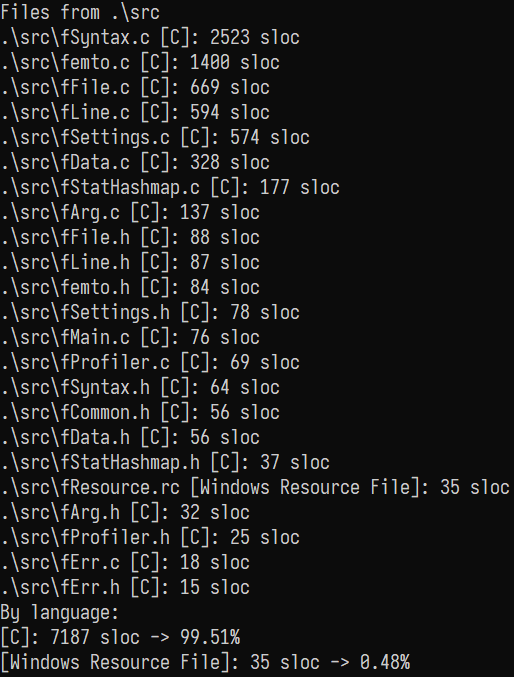
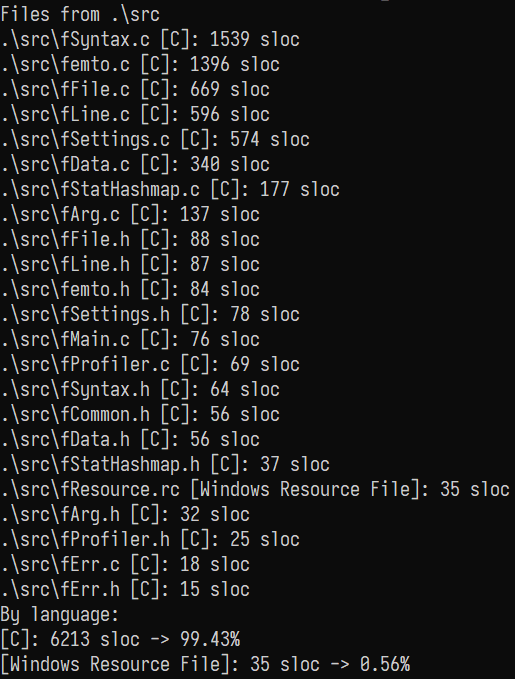
Update sloc

Changed region(s): [[0.0, 0.0, 0.9961, 0.9926], [0.6537, 0.9616, 0.8093, 0.9926], [0.5914, 0.2482, 0.6537, 0.3102]]

diff --git a/README.md b/README.md
@@ -13,7 +13,7 @@ It is also written in vanilla C & Win32 Console API - it's designed to be used s
 It has been compiled with MinGW GCC.
 
 Currently, my other tool [slocWin32](https://github.com/makuke1234/slocWin32)
-reports ~7200 source code lines (excluding whitespace, comments & [jsonlite2](https://github.com/makuke1234/jsonlite2) library):
+reports ~6300 source code lines (excluding whitespace, comments, language keywords & [jsonlite2](https://github.com/makuke1234/jsonlite2) library):
 
 ![SLOC](./images/sloc.png)
 
